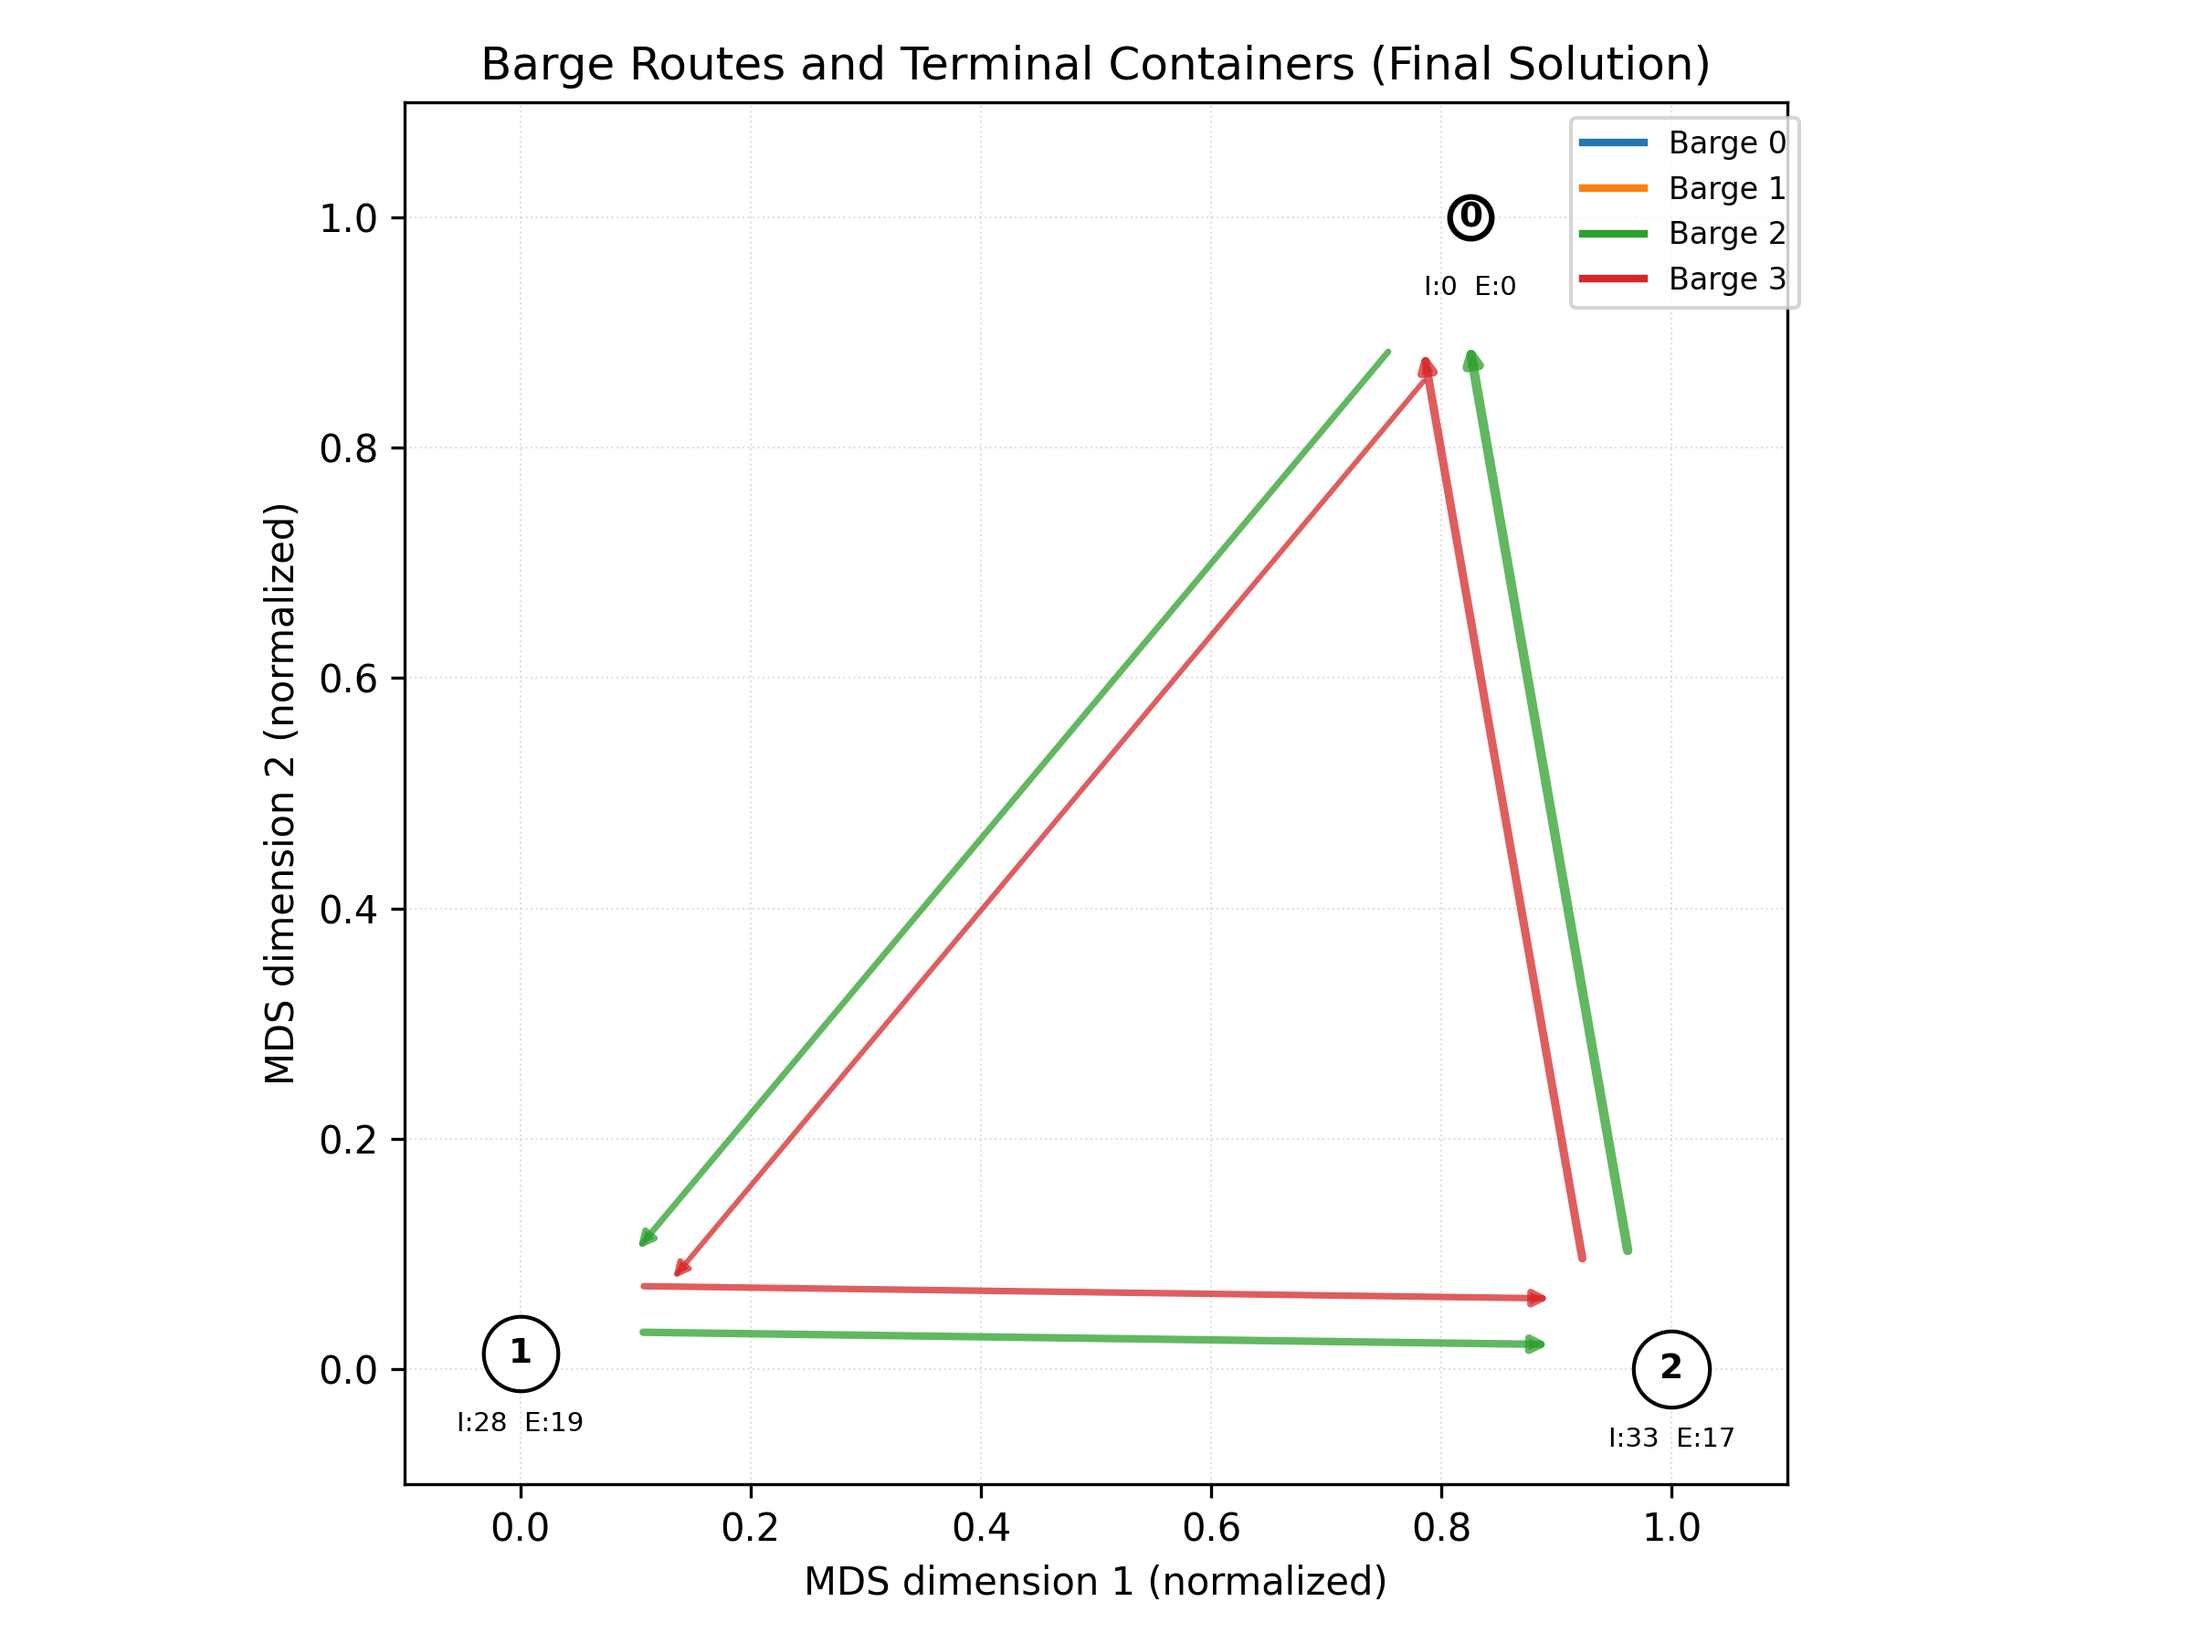
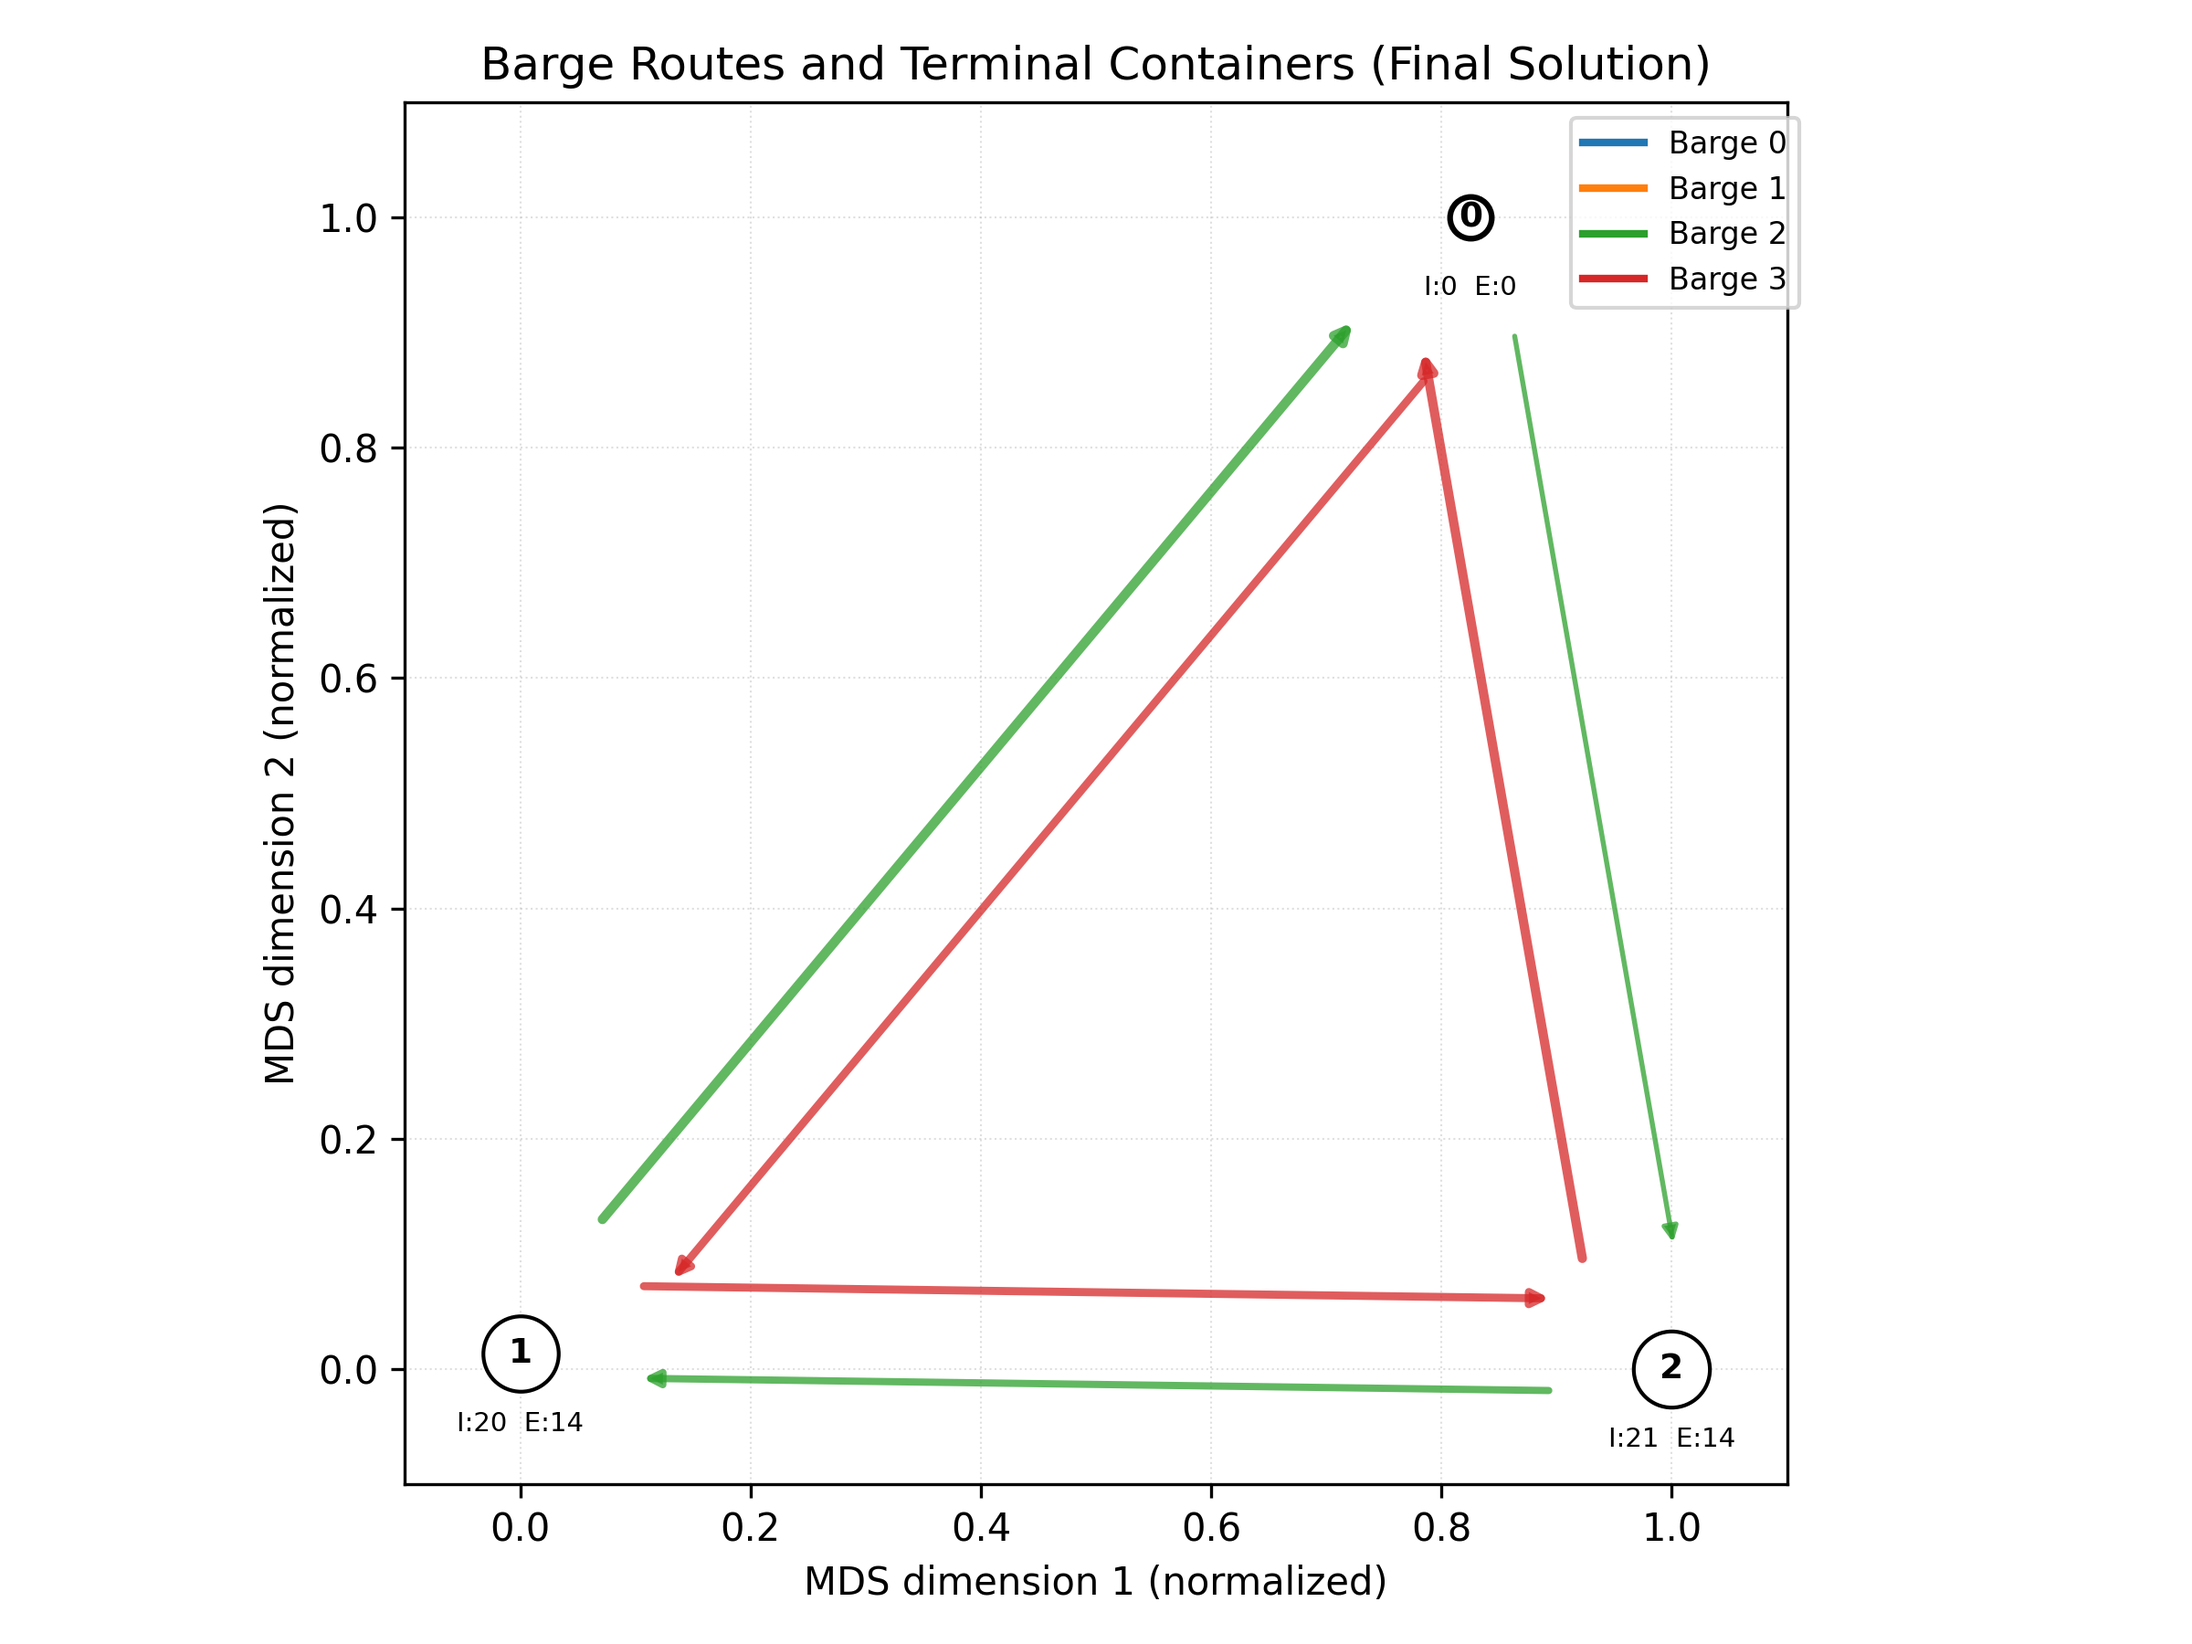
Added big a pre-run printout of the model size and so on.

Changed region(s): [[0.2812, 0.1867, 0.75, 0.7467], [0.2812, 0.8089, 0.7188, 0.8711]]

diff --git a/MILP.py b/MILP.py
@@ -46,7 +46,7 @@ class MILP_Algo:
                                             # Oc is drawn in [Dc - max_offset, Dc - min_offset]
             P40_range=(0.75, 0.9),          # (min, max) probability of 40ft container
             PExport_range=(0.05, 0.7),      # (min, max) probability of export
-            C_range_reduced=(60, 200),      # (min, max) containers when reduced=True
+            C_range_reduced=(60, 100),      # (min, max) containers when reduced=True
             N_range_reduced=(2, 3),         # (min, max) terminals when reduced=True
             gamma=100,                      # penalty per sea terminal visit [euros]
             big_m=1_000_000                 # big-M
@@ -564,6 +564,49 @@ class MILP_Algo:
     # -----------------------
     # Result printing helpers
     # -----------------------
+    def print_pre_run_results(self):
+        """
+        Prints a concise summary of the generated instance before optimization starts.
+        Provides an overview of model size: nodes, containers, barges, and key stats.
+        """
+        print("\nPre-Run Instance Summary")
+        print("========================")
+
+        # Basic counts
+        num_nodes = len(self.N_list)
+        num_containers = len(self.C_list)
+        num_barges = len(self.K_b)
+        num_vehicles = len(self.K_list)
+
+        # Container type counts
+        num_imports = len(self.I)
+        num_exports = len(self.E)
+
+        # TEU totals
+        total_teu = sum(self.W_c)
+        import_teu = sum(self.W_c[c] for c in self.I)
+        export_teu = sum(self.W_c[c] for c in self.E)
+
+        # Time-window statistics (in hours)
+        earliest_open = min(self.O_c) / 60 if self.O_c else None
+        latest_close = max(self.D_c) / 60 if self.D_c else None
+
+        print(f"Nodes (terminals):         {num_nodes}")
+        print(f"Containers:                {num_containers}  "
+              f"(Imports: {num_imports}, Exports: {num_exports})")
+        print(f"Barges available:          {num_barges}")
+        print(f"Total vehicles (incl. truck): {num_vehicles}")
+        print(f"Total TEU:                 {total_teu}  "
+              f"(Import TEU: {import_teu}, Export TEU: {export_teu})")
+
+        print(f"Container time windows:     earliest open = {earliest_open:.1f} h, latest close = {latest_close:.1f} h")
+        print(f"Handling time per container: {self.Handling_time:.2f} hours")
+        print(f"Closing time range (param): {self.Dc_range} hours")
+        print(f"Opening offset range:        {self.Oc_offset_range} hours")
+
+        print("Summary complete.\n\n\n--\n")
+
+
 
     # print_results is not being used currently. 
     def print_results(self):
@@ -1375,9 +1418,13 @@ class MILP_Algo:
         - print node/container/barge tables
         - plot displacements (optional)
         """
+        self.print_pre_run_results()   
+        
         self.setup_model()
         self.set_objective()
         self.add_constraints()
+
+        # Solve
         self.solve()
 
 
